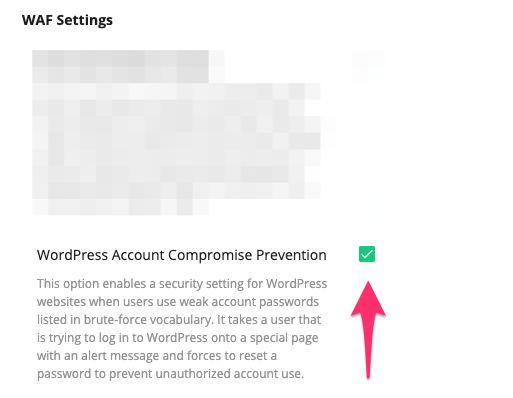
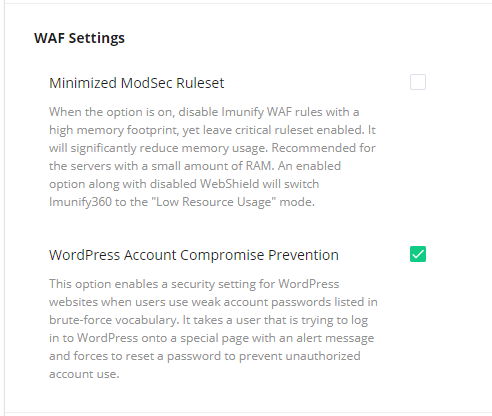
PT-1534 fix 3

diff --git a/docs/dashboard/README.md b/docs/dashboard/README.md
@@ -1246,7 +1246,7 @@ When the <span class="notranslate">_Minimized ModSec Ruleset_</span> option is o
 You can switch back to the normal mode by enabling WebShield or unchecking <span class="notranslate">_Minimized ModSec Ruleset_</span> in Settings | General | WAF Settings
 
 
-![](/images/waf_settings.png)
+![](/images/waf_wordpress_acp.png)
 
 Click <span class="notranslate">_Save changes_</span> button on the bottom of the section to save changes.
 
@@ -1254,8 +1254,6 @@ Click <span class="notranslate">_Save changes_</span> button on the bottom of th
 
 Server admin can enable an option to prevent access to WordPress accounts with well-known (trivial) passwords.
 When the option is enabled, all end-users that are trying to log into the admin account with weak/trivial or well-known passwords from the dictionary used by brute-forcers will be taken to the special alert page with an appeal to change their current password.
-
-![](/images/waf_wordpress_acp.png)
 
 This feature can be enabled by setting <span class="notranslate">`cms_account_compromise_prevention` to `true`</span> in MOD_SEC [config file section](/config_file_description/#config-file-description)
 
